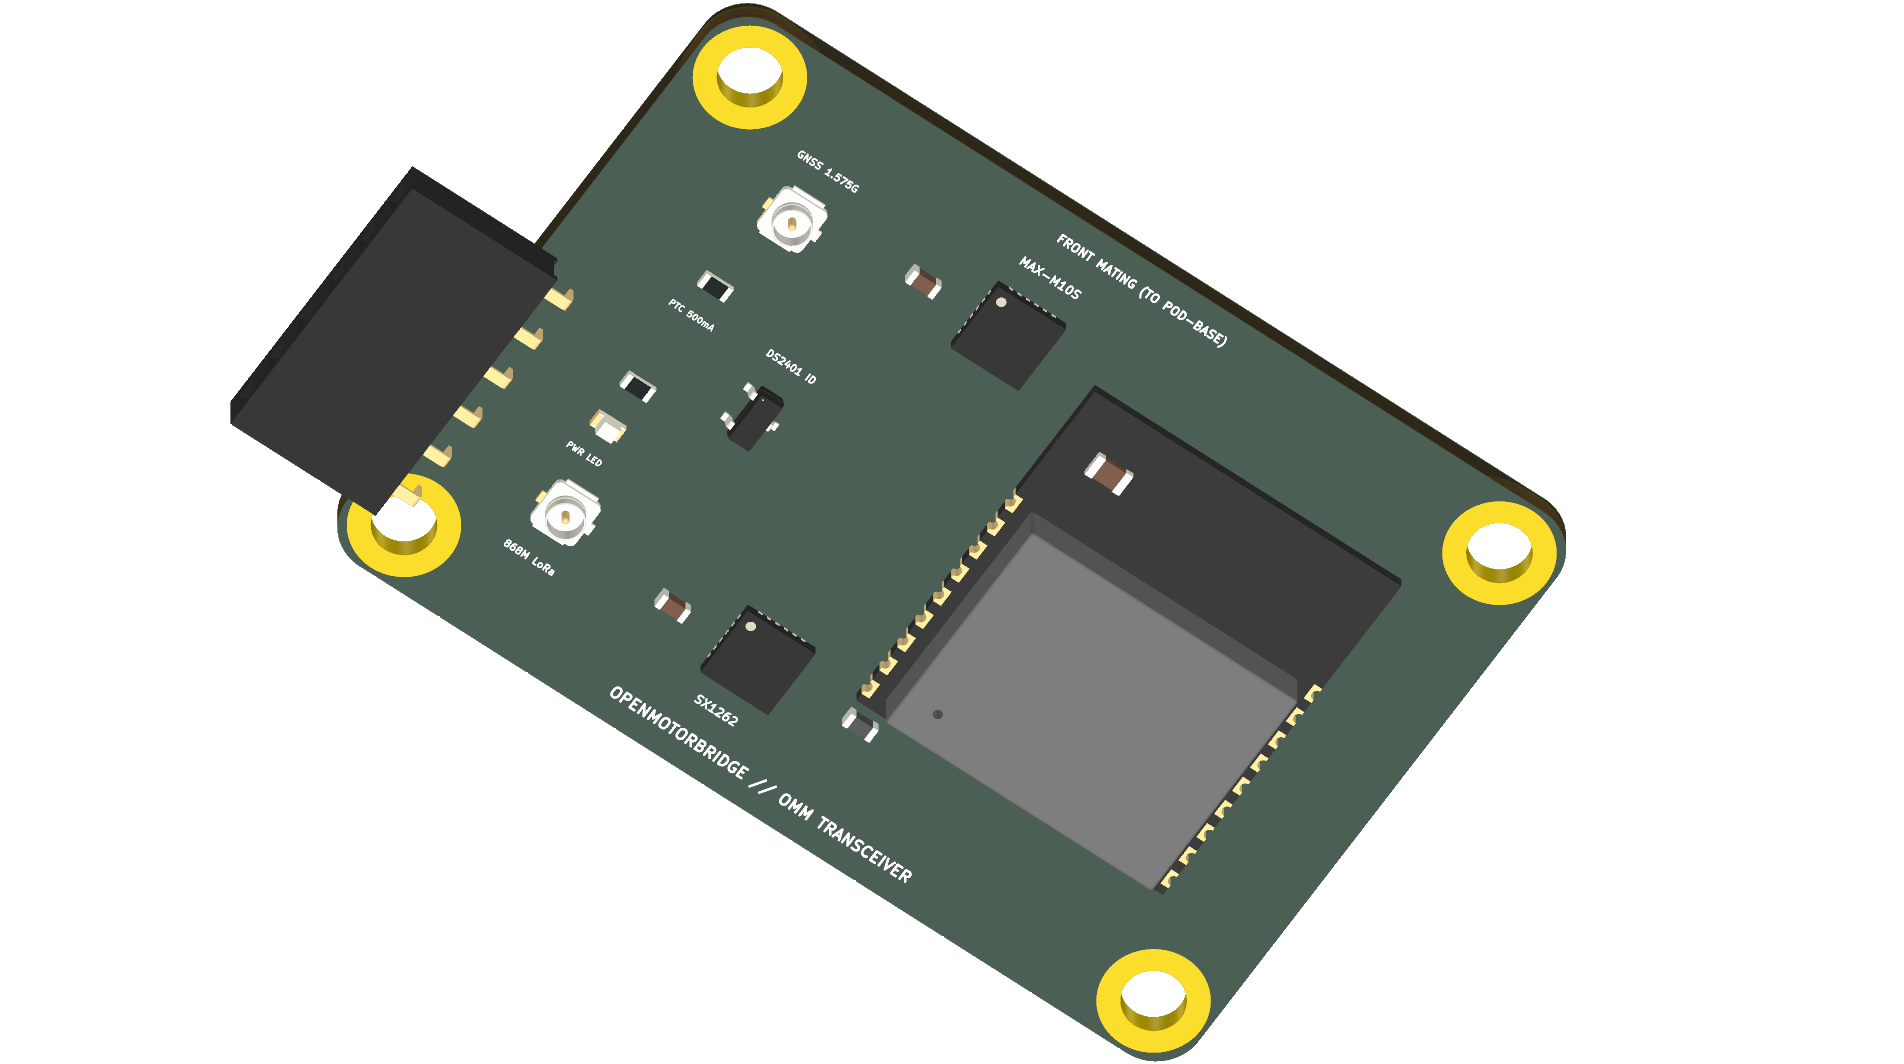
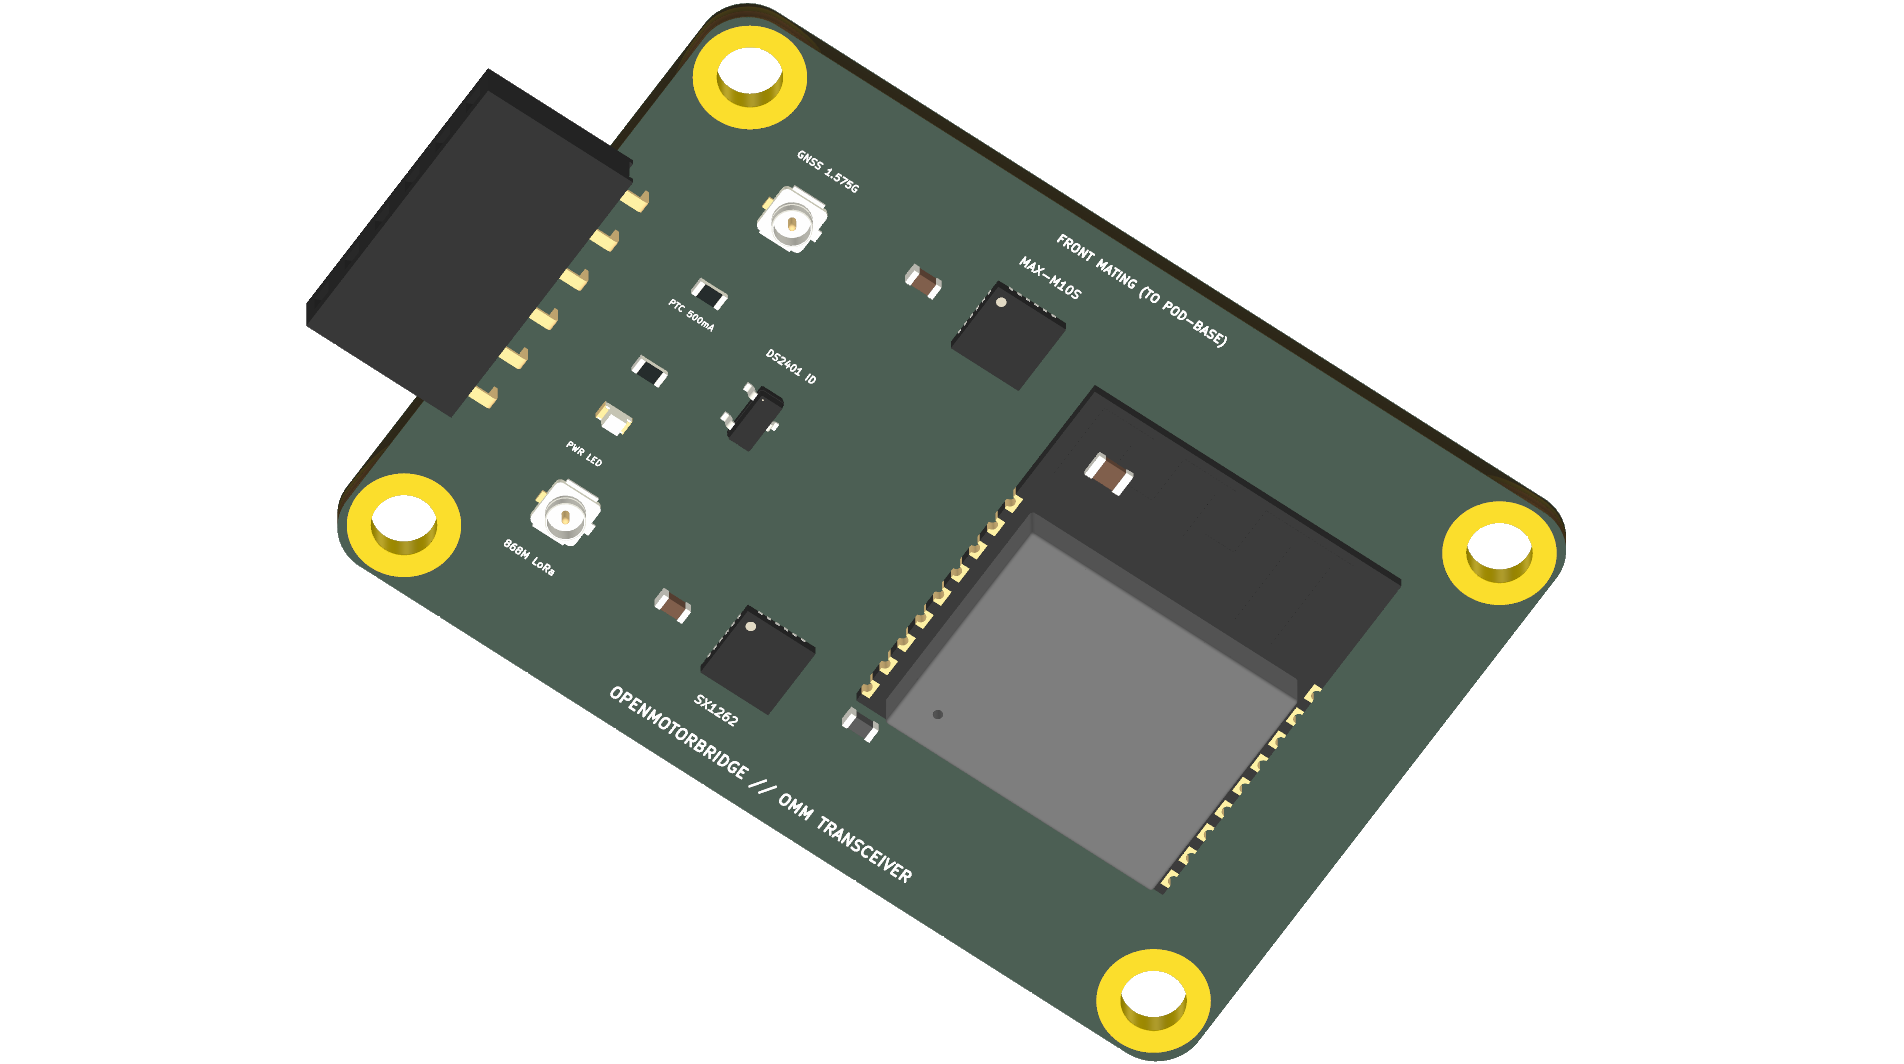
fix(hardware): center horizontal 6-pin socket J1 symmetrically between corner mounting holes H1 and H3

diff --git a/hardware/scripts/autoplace_rear_pod3.py b/hardware/scripts/autoplace_rear_pod3.py
@@ -58,16 +58,16 @@ def auto_place_rear_pod(pcb_path):
         'H3': (X0 + 3.5, Y_max - 3.5, 0.0, pcbnew.F_Cu), # (103.5, 101.5) Bottom-Left
         'H4': (X_max - 3.5, Y_max - 3.5, 0.0, pcbnew.F_Cu),# (146.5, 101.5) Bottom-Right
 
-        # J1: 6-Pin Horizontal Socket on FRONT SHORT EDGE (X=102.5, opening left toward Pod Base)
-        'J1': (102.5, Y_center, 0.0, pcbnew.F_Cu),       # (102.5, 87.5) Front leading-edge socket
+        # J1: 6-Pin Horizontal Socket on FRONT SHORT EDGE (X=102.5mm, Pin 1 at Y=81.15mm so 6 pins span Y 81.15..93.85mm, perfectly centered between H1 and H3!)
+        'J1': (102.5, 81.15, 0.0, pcbnew.F_Cu),          # Symmetrically centered (Clearance to H1: 7.65mm, Clearance to H3: 7.65mm)
 
         # Power Protection & Status LED (Adjacent to J1)
-        'F1': (108.0, Y_center - 4.5, 0.0, pcbnew.F_Cu), # (108.0, 83.0) 500mA PTC Fuse
-        'D1': (108.0, Y_center + 4.5, 0.0, pcbnew.F_Cu), # (108.0, 92.0) Green Power LED
-        'R1': (108.0, Y_center + 2.0, 0.0, pcbnew.F_Cu), # (108.0, 89.5) LED Resistor 1.5k
+        'F1': (108.0, 83.5, 0.0, pcbnew.F_Cu),           # 500mA PTC Fuse
+        'D1': (108.0, 91.5, 0.0, pcbnew.F_Cu),           # Green Power LED
+        'R1': (108.0, 88.5, 0.0, pcbnew.F_Cu),           # LED Resistor 1.5k
 
         # U4: DS2401 Silicon ROM ID (1-Wire)
-        'U4': (113.5, Y_center, 0.0, pcbnew.F_Cu),       # (113.5, 87.5) SOT-23 ID Chip
+        'U4': (113.5, 87.5, 0.0, pcbnew.F_Cu),           # SOT-23 ID Chip
 
         # Active RF & Processor Architecture (Spaced out across board length)
         'U1': (135.0, 90.0, 0.0, pcbnew.F_Cu),           # ESP32-C3 Mesh Transceiver (100% inside board)
